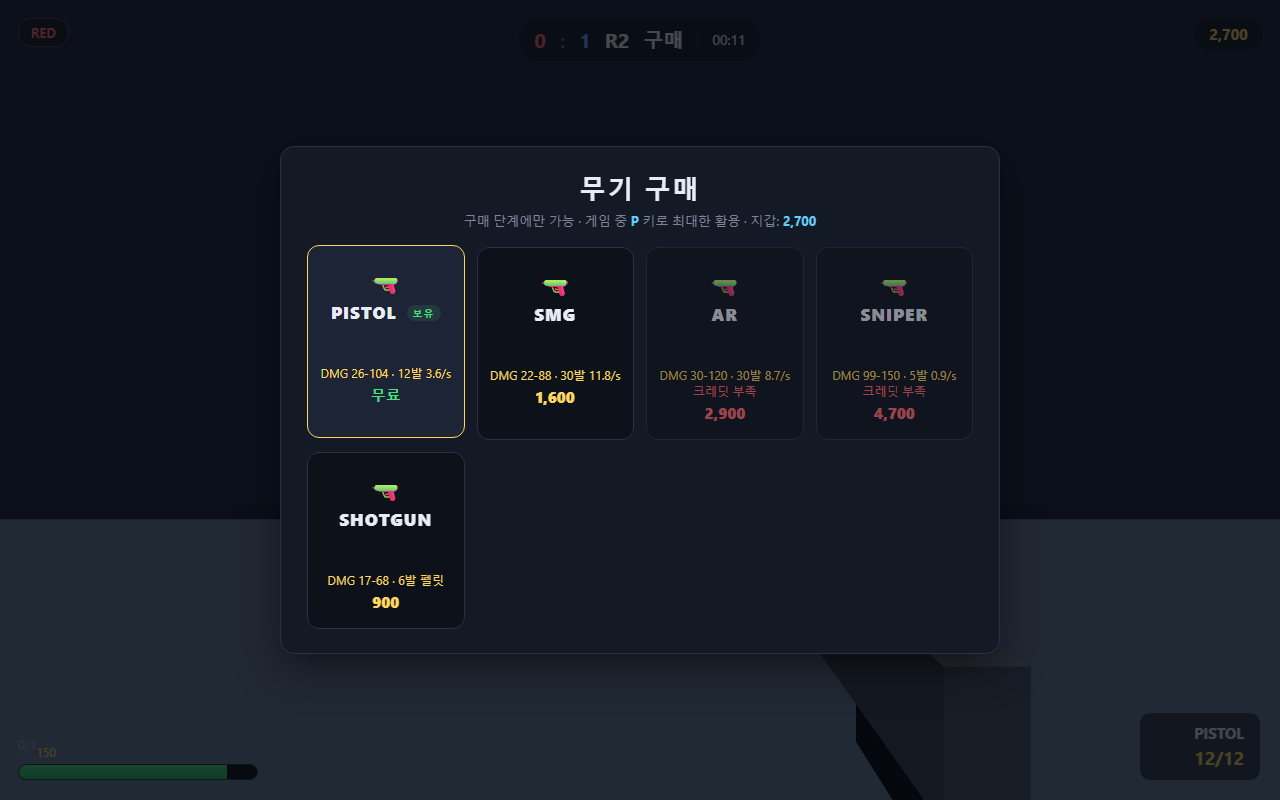
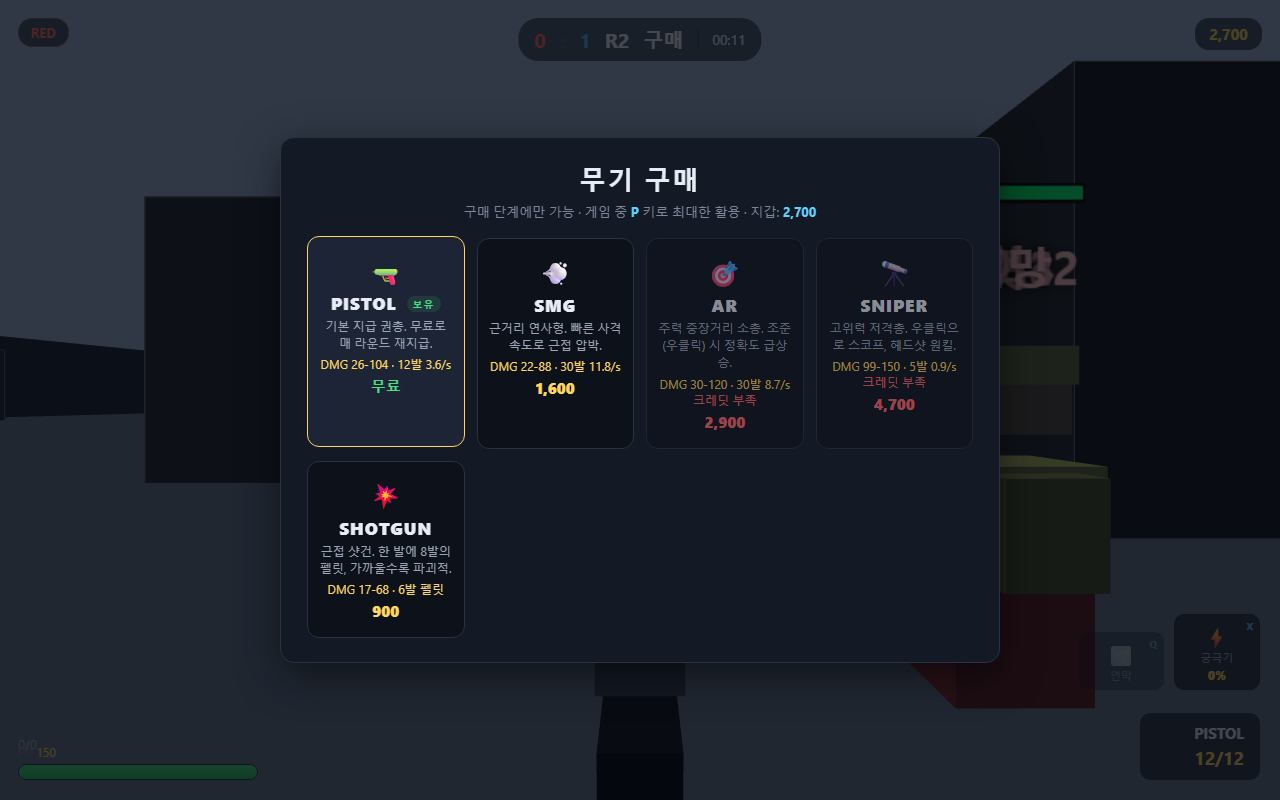
fix: 원격 main 기준 재적용 — 설치/폭발/봇·재시작 등 미수정 버그 수정
- H1: 스파이크 설치 후 수비 전멸 시 즉시 제압승 처리되던 버그 → 폭발(45s) 진행하도록 elim 판정에 planted 가드
- H2: 스파이크 설치 홀드 해제 시 plantingId 미정리로 1.5초 후 자동 설치되던 버그 → stop 시 정리 + plantValid에 planting 상태 검사
- M1: game:kill 이벤트에 weapon 전달(킬피드 무기 배지 연동)
- M2: fillBots를 match.start 이전으로 이동(솔로 시작 시 봇 캐리어 배정 가능)
- M3: lobby:start에 진행 중 재시작 방지 가드
- 진단: A/D 스트레이프 판정을 yaw 기준으로 일반화, 라운드2 대기 200s로 신축화(로컬 ALL PASS)

diff --git a/scripts/puppeteer-diagnose.js b/scripts/puppeteer-diagnose.js
@@ -159,9 +159,13 @@ function stDump() {
       }
       return best;
     }
+    const yaw0 = await page.evaluate(() => window.__s().yaw);
     const dxA = await pressMove("KeyA");
     const dxD = await pressMove("KeyD");
-    check("A/D 스트레이프 방향", dxA < -0.3 && dxD > 0.3, `dA=${dxA.toFixed(2)} dD=${dxD.toFixed(2)}`);
+    // 좌우 이동은 yaw 기준(서버: ix += cos(yaw) / ix -= cos(yaw))이므로 yaw로 기대 부호 결정
+    const aDeflectsPlus = Math.cos(yaw0) >= 0;
+    const okStrafe = aDeflectsPlus ? (dxA > 0.3 && dxD < -0.3) : (dxA < -0.3 && dxD > 0.3);
+    check("A/D 스트레이프 방향", okStrafe, `dA=${dxA.toFixed(2)} dD=${dxD.toFixed(2)} yaw=${yaw0.toFixed(2)}`);
 
     // 발사 — 포인터 락 상태에서만 유효 (headless에선 선택 적용)
     if (await page.evaluate(() => document.pointerLockElement !== null)) {
@@ -190,7 +194,7 @@ function stDump() {
     }
 
     // 라운드 2 진입까지 대기 (HUD 라운드/머니 갱신 확인)
-    await page.waitForFunction(() => window.__s().round >= 2 && window.__s().phase === "buy", { timeout: 120000 });
+    await page.waitForFunction(() => window.__s().round >= 2 && window.__s().phase === "buy", { timeout: 200000 });
     const r2 = JSON.parse(await page.evaluate(stDump));
     check("라운드 2 자동 구매창 재오픈", r2.phase === "buy" && r2.myHP === 150, `round=${r2.round} hp=${r2.myHP} money=${r2.myMoney}`);
 

diff --git a/server/game.js b/server/game.js
@@ -742,6 +742,7 @@ function createMatch(roomId, opts) {
         p.planting = false;
         p.plantingProgress = 0;
         p.defusing = false;
+        if (s.plantingId === p.id) s.plantingId = null;
         if (s.defusingId === p.id) {
           s.defusingId = null;
           // 발로란트: 해체 절반(3.5초)을 넘겼으면 진행 보존, 미만이면 초기화
@@ -894,7 +895,7 @@ function createMatch(roomId, opts) {
       // 설치 진행 (공격팀 캐리어만)
       const planter = s.plantingId ? match._playerMap.get(s.plantingId) : null;
       const plantValid = planter && planter.alive && planter.team === match.attackTeam &&
-        planter.hasSpike && inPlantZone(planter, match.map);
+        planter.hasSpike && planter.planting && inPlantZone(planter, match.map);
       if (plantValid) {
         planter.plantingProgress += dt / SPIKE_PLANT_TIME;
         if (planter.plantingProgress >= 1) {
@@ -1084,7 +1085,7 @@ function createMatch(roomId, opts) {
             win = match.defendTeam; reason = "timeout";
           }
 
-          if (!win && aliveDefend <= 0) { win = match.attackTeam; reason = "elim"; }
+          if (!win && aliveDefend <= 0 && !match.spike.planted) { win = match.attackTeam; reason = "elim"; }
           if (!win && aliveAttack <= 0 && !match.spike.planted) { win = match.defendTeam; reason = "elim"; }
 
           if (win) {

diff --git a/server/server.js b/server/server.js
@@ -382,7 +382,7 @@ setInterval(() => {
           io.to(room.id).emit("game:kill", {
             killerId: ev.killerId, killerName: ev.killerName, killerTeam: ev.killerTeam,
             victimId: ev.victimId, victimName: ev.victimName, victimTeam: ev.victimTeam,
-            headshot: ev.headshot,
+            headshot: ev.headshot, weapon: ev.weapon,
           });
           break;
         }
@@ -539,6 +539,10 @@ io.on("connection", (socket) => {
   socket.on("lobby:start", () => {
     const room = ROOMS.get(socket.data.roomId);
     if (!room) return;
+    if (room.status !== "lobby") {
+      socket.emit("lobby:start", { ok: false, reason: "이미 게임이 진행 중입니다." });
+      return;
+    }
     if (room.host !== socket.id) {
       socket.emit("lobby:start", { ok: false, reason: "방장만 시작할 수 있습니다." });
       return;
@@ -551,8 +555,8 @@ io.on("connection", (socket) => {
 
     room.status = "playing";
     room.tickCount = 0;
-    room.match.start();
     fillBots(room);
+    room.match.start();
 
     io.to(room.id).emit("game:started", {
       ok: true,
